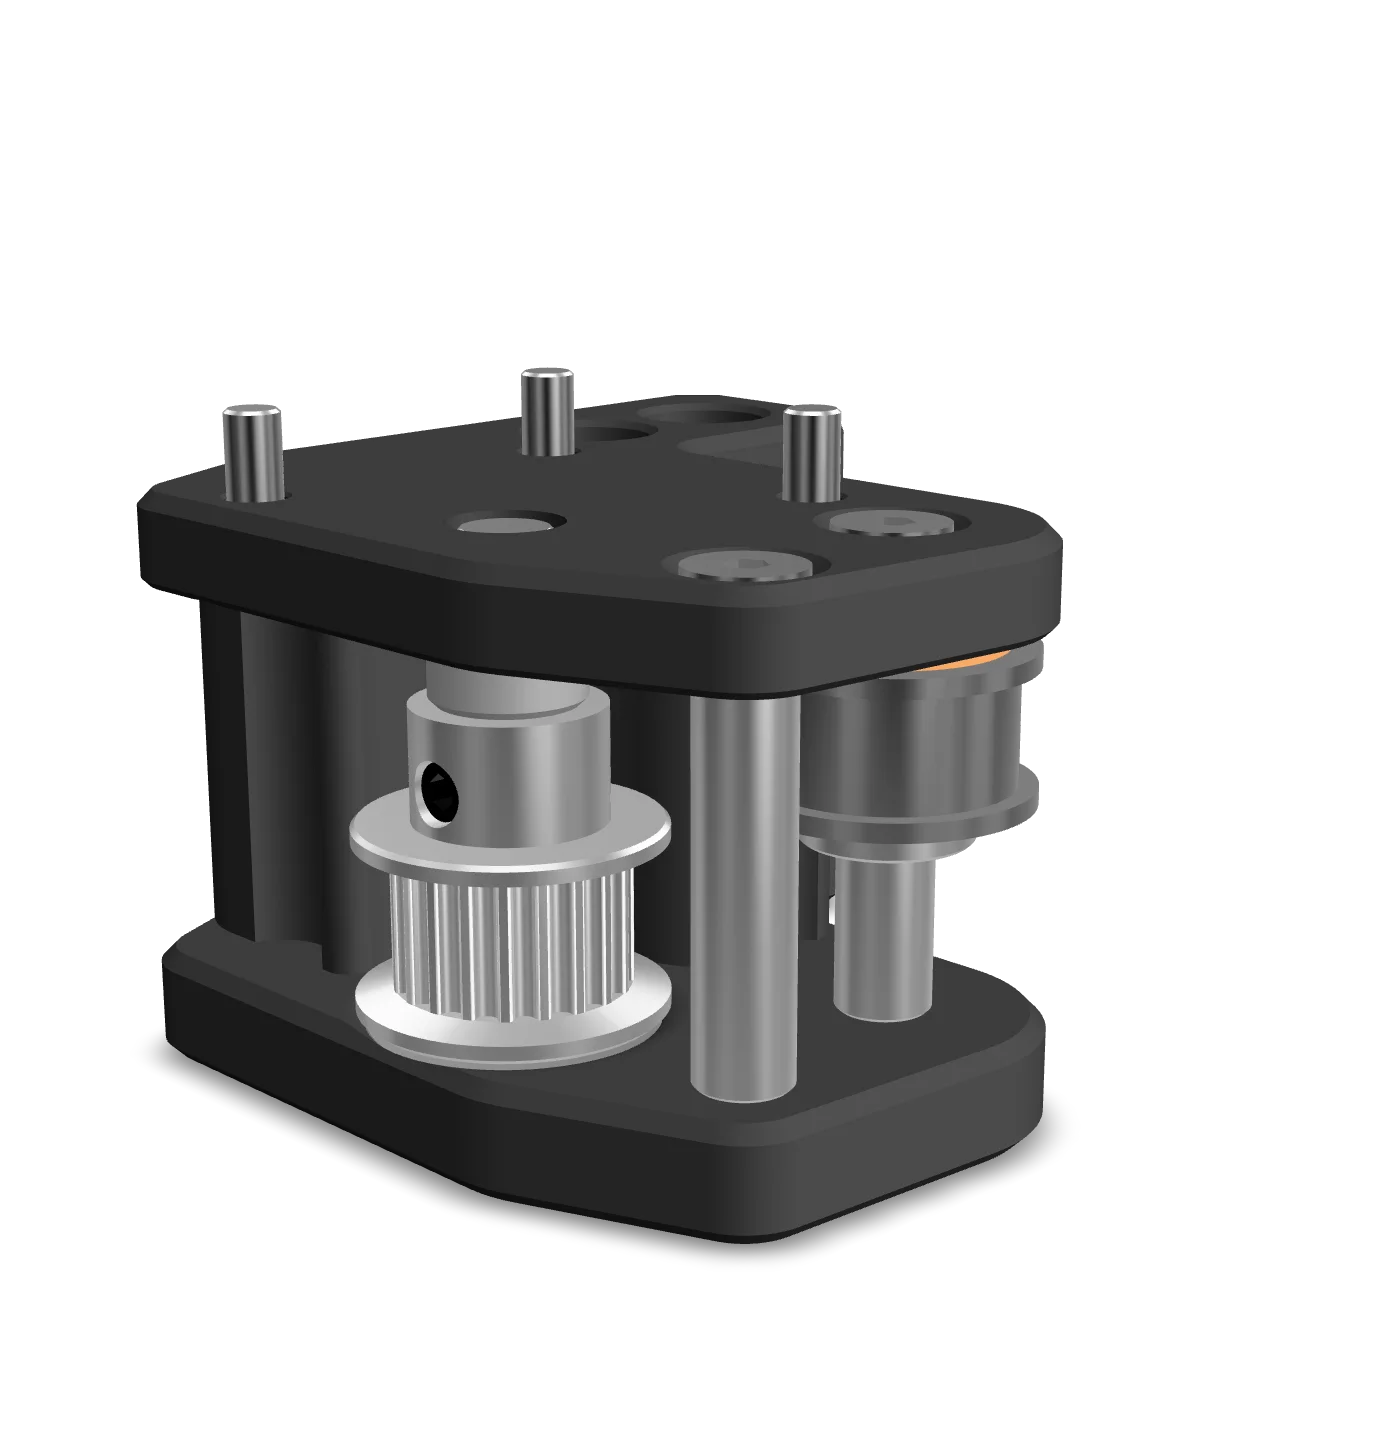
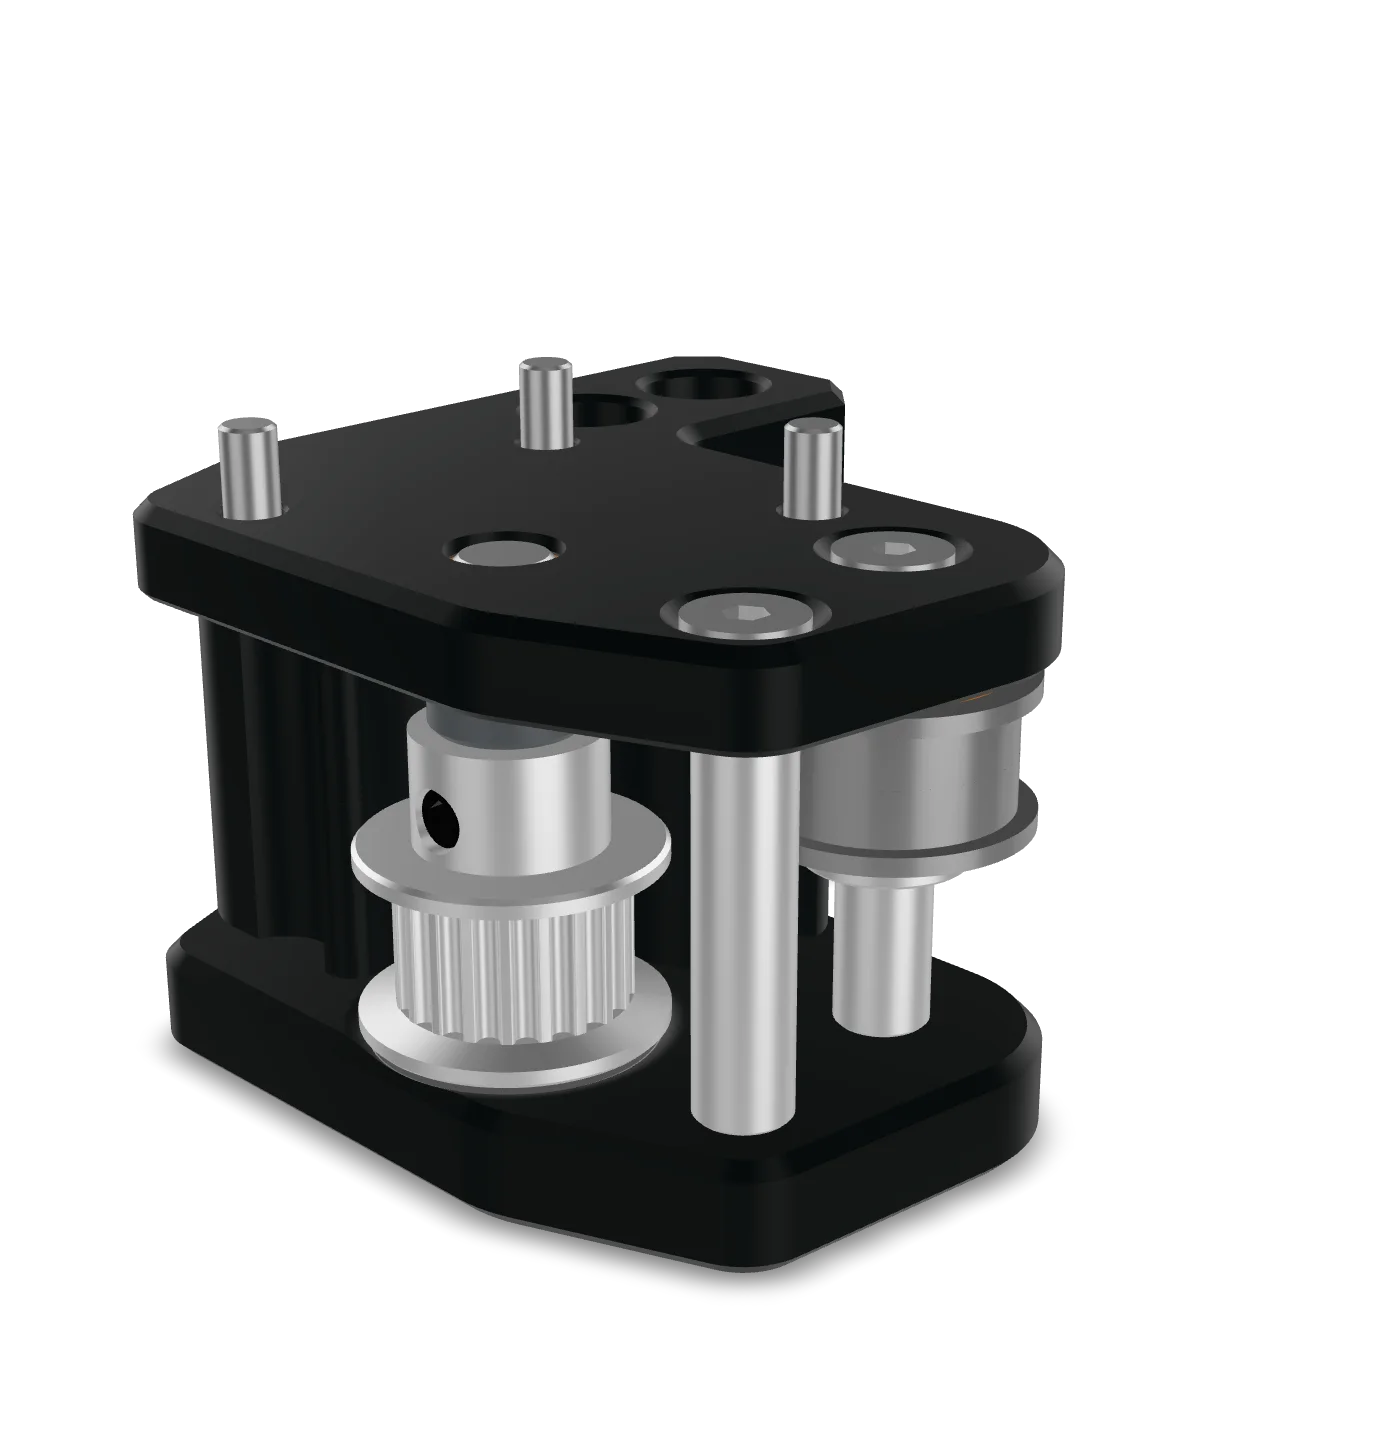
Changed materials and Environment HDRI Lighting

Changed region(s): [[0.0924, 0.25, 0.7701, 0.9062], [0.1232, 0.7188, 0.154, 0.75]]

diff --git a/docs/.vitepress/theme/components/ModelViewer3D.vue b/docs/.vitepress/theme/components/ModelViewer3D.vue
@@ -16,10 +16,10 @@
       touch-action="pan-y"
       reveal="manual"
       loading="lazy"
-      environment-image="legacy"
+      :environment-image="withBase('/models/environments/HDRI.jpg')"
       tone-mapping="commerce"
       shadow-intensity="0"
-      exposure="1"
+      :exposure="1.45"
       :camera-target="defaultCameraTarget"
       :camera-orbit="defaultCameraOrbit"
       :field-of-view="defaultFieldOfView"
@@ -70,11 +70,17 @@
           title="Reset animation"
           @click="resetAnimation"
         >
-          <svg aria-hidden="true" viewBox="0 0 24 24">
-            <path
-              fill="currentColor"
-              d="M12 5a7 7 0 1 1-6.32 4H3l3.5-3.5L10 9H7.74A5 5 0 1 0 12 7V5Z"
-            />
+          <svg
+            aria-hidden="true"
+            viewBox="0 0 24 24"
+            fill="none"
+            stroke="currentColor"
+            stroke-width="2"
+            stroke-linecap="round"
+            stroke-linejoin="round"
+          >
+            <path d="M19 20 9 12l10-8v16Z" />
+            <path d="M5 19V5" />
           </svg>
           <span>Reset</span>
         </button>
@@ -83,7 +89,8 @@
       <div v-if="modelLoaded && animationReady" class="viewer-toolbar viewer-toolbar--right">
         <button
           type="button"
-          class="toolbar-button"
+          class="toolbar-button toolbar-button--icon"
+          aria-label="Reset camera"
           title="Reset camera"
           @click="resetCamera"
         >
@@ -93,12 +100,12 @@
               d="M12 5a7 7 0 1 1-6.32 4H3l3.5-3.5L10 9H7.74A5 5 0 1 0 12 7V5Z"
             />
           </svg>
-          <span>Reset camera</span>
         </button>
 
         <button
           type="button"
-          class="toolbar-button"
+          class="toolbar-button toolbar-button--icon"
+          :aria-label="isFullscreen ? 'Exit fullscreen' : 'Fullscreen'"
           :title="isFullscreen ? 'Exit fullscreen' : 'Fullscreen'"
           @click="toggleFullscreen"
         >
@@ -115,9 +122,77 @@
               d="M8 4h2v6H4V8h4V4Zm6 0h2v4h4v2h-6V4ZM4 14h6v6H8v-4H4v-2Zm10 0h6v2h-4v4h-2v-6Z"
             />
           </svg>
-
-          <span>{{ isFullscreen ? 'Exit' : 'Fullscreen' }}</span>
         </button>
+
+        <button
+          type="button"
+          class="toolbar-button toolbar-button--icon"
+          aria-label="3D viewer controls"
+          title="3D viewer controls"
+          :aria-expanded="isHelpOpen"
+          aria-controls="viewer-help"
+          @click="isHelpOpen = !isHelpOpen"
+        >
+          <svg aria-hidden="true" viewBox="0 0 24 24">
+            <path
+              fill="currentColor"
+              d="M11 18h2v2h-2v-2Zm1-16a7 7 0 1 0 0 14A7 7 0 0 0 12 2Zm0 12a5 5 0 1 1 0-10 5 5 0 0 1 0 10Zm0-8a3 3 0 0 0-3 3h2a1 1 0 1 1 1.7.7c-.9.55-1.7 1.2-1.7 2.8V13h2v-.4c0-.75.25-1 .95-1.45A3 3 0 0 0 12 6Z"
+            />
+          </svg>
+        </button>
+      </div>
+
+      <div
+        v-if="modelLoaded && animationReady && isHelpOpen"
+        id="viewer-help"
+        class="viewer-help"
+        role="dialog"
+        aria-label="3D viewer controls"
+      >
+        <div class="viewer-help__header">
+          <div class="viewer-help__title">
+            <svg
+              aria-hidden="true"
+              viewBox="0 0 24 24"
+              fill="none"
+              stroke="currentColor"
+              stroke-width="2"
+              stroke-linecap="round"
+              stroke-linejoin="round"
+            >
+              <circle cx="12" cy="12" r="10" />
+              <path d="M12 16v-4" />
+              <path d="M12 8h.01" />
+            </svg>
+
+            <span>Viewer Controls</span>
+          </div>
+
+          <button
+            class="viewer-help__close"
+            @click="isHelpOpen = false"
+            title="Close"
+          >
+            ×
+          </button>
+        </div>
+
+        <dl class="viewer-help__list">
+          <div>
+            <dt>Rotate</dt>
+            <dd>Left-drag or drag with one finger</dd>
+          </div>
+
+          <div>
+            <dt>Pan</dt>
+            <dd>Right-drag or drag with two fingers</dd>
+          </div>
+
+          <div>
+            <dt>Zoom</dt>
+            <dd>Mouse wheel or pinch</dd>
+          </div>
+        </dl>
       </div>
 
       <div v-if="modelLoaded && animationReady" class="explosion-control">
@@ -193,6 +268,7 @@ const viewerWrapper = ref(null)
 const explosion = ref(0)
 const isPlaying = ref(false)
 const isFullscreen = ref(false)
+const isHelpOpen = ref(false)
 
 let direction = 1
 let animationFrameId = null
@@ -448,6 +524,8 @@ async function toggleFullscreen() {
 function handleFullscreenChange() {
   isFullscreen.value =
     document.fullscreenElement === viewerWrapper.value
+
+  isHelpOpen.value = false
 }
 </script>
 
@@ -580,6 +658,11 @@ model-viewer {
   flex: 0 0 auto;
 }
 
+.toolbar-button--icon {
+  width: 36px;
+  padding: 0;
+}
+
 .toolbar-button:hover {
   border-color: var(--vp-c-brand-1);
   color: var(--vp-c-brand-1);
@@ -589,6 +672,123 @@ model-viewer {
 .explosion-slider:focus-visible {
   outline: 2px solid var(--vp-c-brand-1);
   outline-offset: 2px;
+}
+
+
+.viewer-help {
+  position: absolute;
+  top: 58px;
+  right: 14px;
+  z-index: 6;
+
+  width: min(420px, calc(100% - 28px));
+  padding: 16px;
+
+  border: 1px solid rgb(255 255 255 / 8%);
+  border-radius: 10px;
+
+  background: rgb(24 24 28 / 60%);
+  color: var(--vp-c-text-1);
+
+  box-shadow: 0 10px 30px rgb(0 0 0 / 25%);
+  backdrop-filter: blur(8px);
+}
+
+.viewer-help__header {
+  display: flex;
+  align-items: center;
+  justify-content: space-between;
+  gap: 12px;
+
+  margin-bottom: 10px;
+}
+
+.viewer-help__title {
+  display: flex;
+  align-items: center;
+  gap: 10px;
+
+  font-size: 1.05rem;
+  font-weight: 700;
+  color: var(--vp-c-text-1);
+}
+
+.viewer-help__title svg {
+  width: 20px;
+  height: 20px;
+  color: var(--vp-c-brand-1);
+  flex-shrink: 0;
+}
+
+.viewer-help__close {
+  display: grid;
+  place-items: center;
+
+  width: 30px;
+  height: 30px;
+  padding: 0;
+
+  border: 1px solid transparent;
+  border-radius: 8px;
+
+  background: transparent;
+  color: var(--vp-c-text-2);
+
+  font: inherit;
+  font-size: 18px;
+  font-weight: 600;
+  line-height: 1;
+
+  cursor: pointer;
+  transition: .2s;
+}
+
+.viewer-help__close:hover {
+  border-color: var(--vp-c-divider);
+  background: color-mix(
+    in srgb,
+    var(--vp-c-bg) 90%,
+    transparent
+  );
+  color: var(--vp-c-text-1);
+}
+
+.viewer-help__close:focus-visible {
+  outline: 2px solid var(--vp-c-brand-1);
+  outline-offset: 2px;
+}
+
+.viewer-help__close:hover {
+  background: var(--vp-c-bg-soft);
+  color: var(--vp-c-text-1);
+}
+
+.viewer-help__close:focus-visible {
+  outline: 2px solid var(--vp-c-brand-1);
+  outline-offset: 2px;
+}
+
+.viewer-help__list {
+  display: grid;
+  gap: 10px;
+  margin: 0;
+}
+
+.viewer-help__list > div {
+  display: grid;
+  grid-template-columns: 72px 1fr;
+  gap: 14px;
+}
+
+.viewer-help__list dt {
+  color: var(--vp-c-text-1);
+  font-weight: 600;
+}
+
+.viewer-help__list dd {
+  margin: 0;
+  color: var(--vp-c-text-2);
+  white-space: nowrap;
 }
 
 /* Explosion slider — intentionally no surrounding panel */
@@ -718,6 +918,12 @@ model-viewer {
 
   .toolbar-button span {
     display: none;
+  }
+
+  .viewer-help {
+    top: 54px;
+    right: 10px;
+    width: min(300px, calc(100% - 20px));
   }
 
   .explosion-control {

diff --git a/docs/k1v/assembly/xy-joints.md b/docs/k1v/assembly/xy-joints.md
@@ -9,6 +9,6 @@ description: Assemble the K1V XY joints and their associated linear-motion and b
 <ModelViewer3D
   model="/models/L-XY-joint.glb"
   poster="/models/L-XY-joint-poster.webp"
-  default-camera-orbit="-45deg 75deg auto"
+  default-camera-orbit="-45deg 70deg auto"
   alt="Interactive exploded view of the XY-joint assembly"
 />
